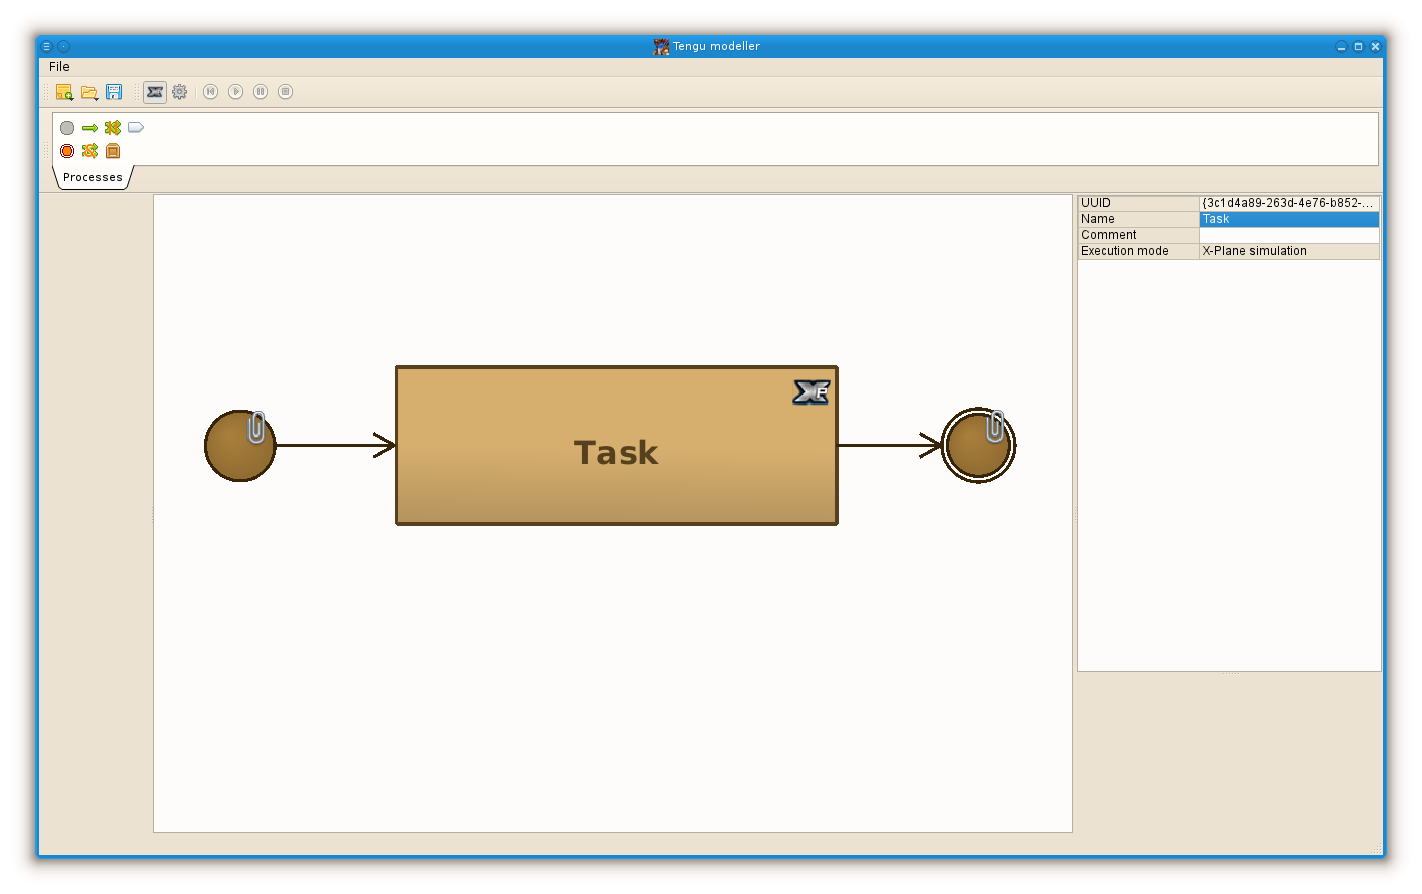
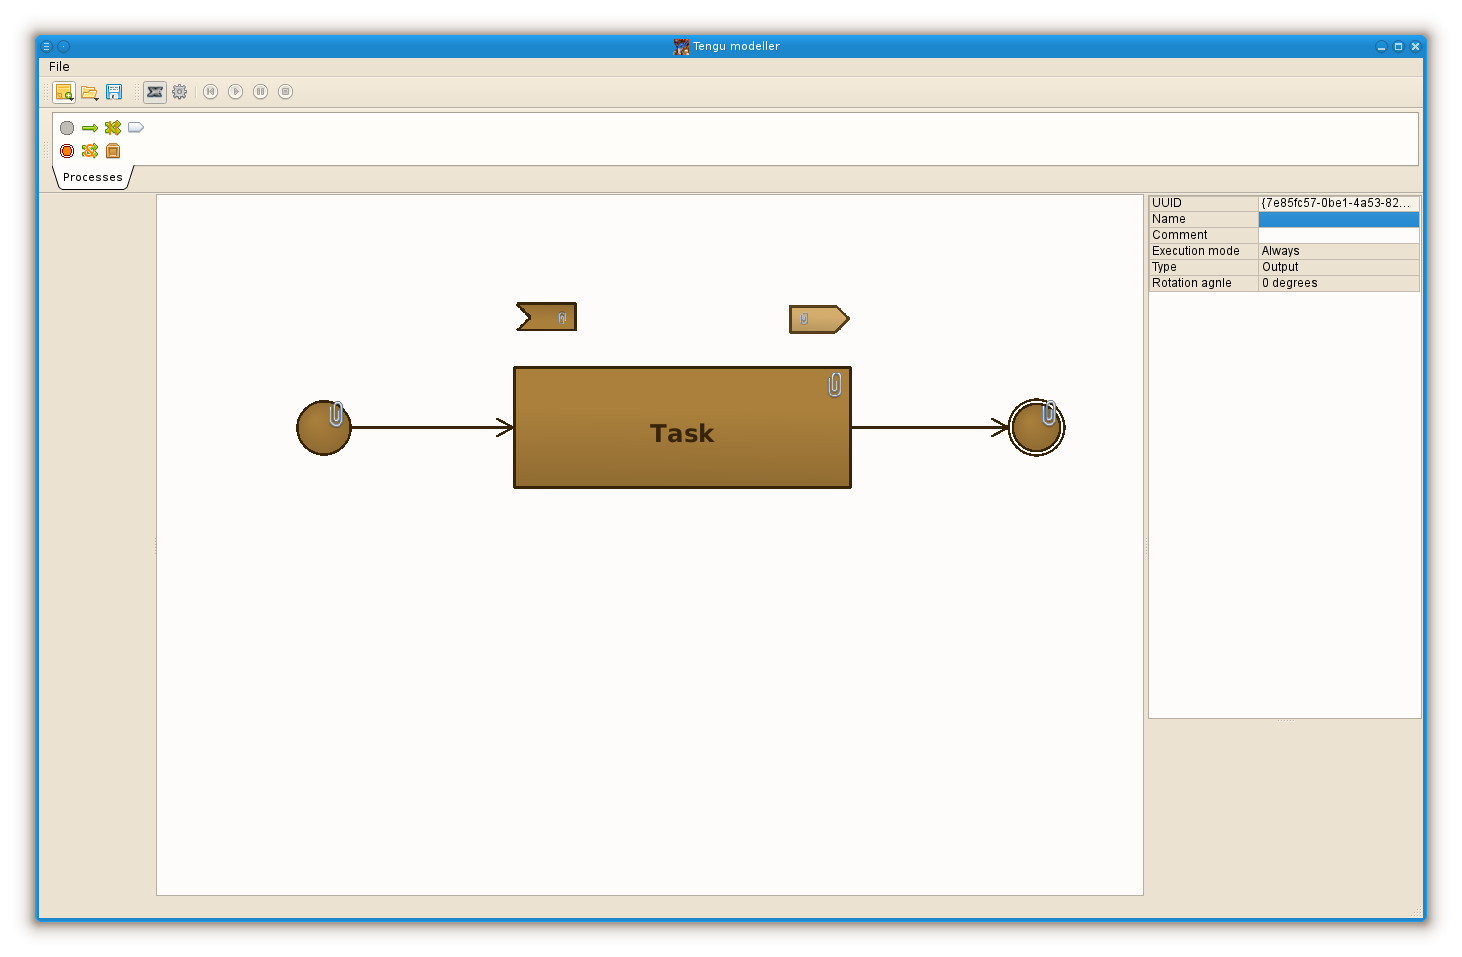
Sprout rotation

Changed region(s): [[0.0, 0.0302, 0.9902, 0.9664]]

diff --git a/tengu/guis/tengu_modeller/src/schema/SproutItem.cpp b/tengu/guis/tengu_modeller/src/schema/SproutItem.cpp
@@ -21,10 +21,46 @@
 tengu::SproutItem::SproutItem ( tengu::Sprout * sprout, QGraphicsItem* parent ) 
     : AbstractEntityItem ( sprout , parent )
 {
-    _boundingRect = QRect( 0, 0, 72, 33 );
-    _className = "SproutItem";
+    __width = 72;
+    __height = 33;
     __orientation = SPO_0;
+    
+    _boundingRect = QRect( 0, 0, __width, __height );
+    _className = "SproutItem";    
+    
 }
+
+// ********************************************************************************************************************
+// *                                                                                                                  *
+// *                                          Make and return transformation matrix.                                  *
+// * ---------------------------------------------------------------------------------------------------------------- *
+// *                                        Сделать и вернуть матрицу трансформации.                                  *
+// *                                                                                                                  *
+// ********************************************************************************************************************
+
+QTransform tengu::SproutItem::__transform() {
+    QTransform transform;
+    transform.translate( - __width/2, __height/2 );
+    transform.rotate( 360.0 - (int) getOrientation() );
+    transform.translate( __width/2, __height/2 );
+    return transform;
+}
+
+// ********************************************************************************************************************
+// *                                                                                                                  *
+// *                                           Recalculate item's screen position.                                    *
+// * ---------------------------------------------------------------------------------------------------------------- *
+// *                                           Пересчет позиции элемента на экране.                                   *
+// *                                                                                                                  *
+// ********************************************************************************************************************
+
+void tengu::SproutItem::recalculate() {
+    
+    QPixmap pixmap( __width + 1, __height + 1 );            
+    QPixmap rotated = pixmap.transformed( __transform() );    
+    _boundingRect = rotated.rect();    
+}
+
 
 // ********************************************************************************************************************
 // *                                                                                                                  *
@@ -38,28 +74,87 @@ void tengu::SproutItem::paint ( QPainter* painter, const QStyleOptionGraphicsIte
     
     _storePainterSettings( painter );
     
-    painter->setPen( _processDiagram_borderPen() );
+    // Draw the picture at the in-memory pixmap
+    // Рисуем картинку в памяти.
+    
+    QPixmap pixmap( __width + 1, __height + 1 );    
+    
+    QPainter p( & pixmap );
+    
+    // No color but alpha-layer
+    // Цвета нет, но есть альфа-слой.
+    
+    p.setBrush( QColor( 0, 0, 0, 255 ) );
+    p.eraseRect( 0, 0, __width + 1, __height + 1 );
+    
+    p.setPen( _processDiagram_borderPen() );
     
     QLinearGradient gradient( _boundingRect.topLeft(), _boundingRect.bottomLeft() );
     gradient.setColorAt(0, _processDiagram_brightFillColor() );
     gradient.setColorAt(1, _processDiagram_darkFillColor() );
     gradient.setStart( 1, _boundingRect.height() / 3 );
     QBrush brush( gradient );
-    painter->setBrush( brush );
+    p.setBrush( brush );
     
     int noseWidth = ( _boundingRect.height() - 2 ) / 2;
-    QPointF points[5] = {
-        QPointF(1,1),
-        QPointF( _boundingRect.width() - 1 - noseWidth, 1 ),
-        QPointF( _boundingRect.width() - 1, _boundingRect.height() / 2 ),
-        QPointF( _boundingRect.width() - 1 - noseWidth, _boundingRect.height() - 1 ),
-        QPointF( 1, _boundingRect.height() - 1 )
+    
+    if ( getSproutType() == Sprout::SP_OUTPUT ) {
         
+        QPointF points[5] = {
+            QPointF(1,1),
+            QPointF( __width - 1 - noseWidth, 1 ),
+            QPointF( __width - 1, __height / 2 ),
+            QPointF( __width - 1 - noseWidth, __height - 1 ),
+            QPointF( 1, __height - 1 )
+        
+        };    
+        p.drawPolygon( points, 5 );
+        
+    } else {
+        
+        QPointF points[5] = {
+            QPointF(1,1),
+            QPointF( __width - 1, 1 ),
+            QPointF( __width - 1 - noseWidth, __height / 2 ),
+            QPointF( __width - 1, __height - 1 ),
+            QPointF( 1, __height - 1 )
+        };
+        p.drawPolygon( points, 5 );
     };
     
-    painter->drawPolygon( points, 5 );
+    // Execution mode pixmap.
+    // Картинка режима выполнения.
     
+    QPixmap emp = _executionModePixmap( false );
+    // if ( getExecutionMode() == EM_XPLANE ) 
+    //    p.drawPixmap( __width-40, 8, emp );
+    // else 
+        p.drawPixmap( 10, 8, emp );
+    
+    // Rotate in-memory picture to specified angle.
+    // Поворот картинки в памяти на укзанный угол.
+        
+    QPixmap rotated = pixmap.transformed( __transform() );    
+    
+    // Output picture from memory to screen
+    // вывод картинки из памяти на экран.
+    
+    painter->setCompositionMode( QPainter::CompositionMode_Multiply );
+    painter->drawPixmap( 0, 0, rotated );
+        
     _restorePainterSettings( painter );
+    
+    /*
+    QPixmap pix1 = pixmap.transformed( QTransform().translate(-rRadius, -rRadius));
+    QPixmap pix2 = m_pxOriginal.transformed(QTransform().rotate(m_iAn gle));
+    QPixmap rotatedPix = pix2.transformed(QTransform().translate(rRadius, rRadius));
+    m_pxItem->setPixmap(rotatedPix);
+    */
+    
+    // _storePainterSettings( painter );
+    
+    
+    // _restorePainterSettings( painter );
     
     /*
     QPixmap pixmap( _boundingRect.width(), _boundingRect.height() ) ;

diff --git a/tengu/guis/tengu_modeller/src/schema/AbstractEntityItem.cpp b/tengu/guis/tengu_modeller/src/schema/AbstractEntityItem.cpp
@@ -230,9 +230,29 @@ QPen tengu::AbstractEntityItem::_processDiagram_borderPen() {
 // ********************************************************************************************************************
 
 void tengu::AbstractEntityItem::_storePainterSettings ( QPainter * painter ) {
+    
     __oldPainterPen = painter->pen();
     __oldPainterBrush = painter->brush();
     __oldPainterFont = painter->font();
+    __oldPainterCompositionMode = painter->compositionMode();
+    
+}
+
+// ********************************************************************************************************************
+// *                                                                                                                  *
+// *                                             Restore old painter settings.                                        *
+// * ---------------------------------------------------------------------------------------------------------------- *
+// *                                       Восстановление старых установок painter'а.                                 *
+// *                                                                                                                  *
+// ********************************************************************************************************************
+
+void tengu::AbstractEntityItem::_restorePainterSettings ( QPainter * painter ) {
+    
+    painter->setPen( __oldPainterPen );
+    painter->setBrush( __oldPainterBrush );
+    painter->setFont( __oldPainterFont );
+    painter->setCompositionMode( __oldPainterCompositionMode );
+    
 }
 
 // ********************************************************************************************************************
@@ -288,20 +308,6 @@ QPixmap tengu::AbstractEntityItem::_executionModePixmap( bool forSize32 ) {
     return QPixmap();
 }
 
-
-// ********************************************************************************************************************
-// *                                                                                                                  *
-// *                                             Restore old painter settings.                                        *
-// * ---------------------------------------------------------------------------------------------------------------- *
-// *                                       Восстановление старых установок painter'а.                                 *
-// *                                                                                                                  *
-// ********************************************************************************************************************
-
-void tengu::AbstractEntityItem::_restorePainterSettings ( QPainter * painter ) {
-    painter->setPen( __oldPainterPen );
-    painter->setBrush( __oldPainterBrush );
-    painter->setFont( __oldPainterFont );
-}
 
 // ********************************************************************************************************************
 // *                                                                                                                  *

diff --git a/tengu/guis/tengu_modeller/src/AgentPropertyModel.cpp b/tengu/guis/tengu_modeller/src/AgentPropertyModel.cpp
@@ -250,11 +250,16 @@ bool tengu::AgentPropertyModel::setData( const QModelIndex & index, const QVaria
     
     if ( ( role == Qt::EditRole ) && ( ! oneElement.readOnly ) && ( ! oneElement.propertyName.isEmpty() ) ) {
         
+        __item->hide();
+        
         switch ( oneElement.type ) {
             
             case AgentPropertyElement::String: {
                 __item->setProperty( oneElement.propertyName.toLatin1().data(), value );
             }; break;
+            
+            // The enumerable values want not to be setted as property.
+            // Перечислимые значения не хотят устанавливаться как свойство.
             
             case AgentPropertyElement::ExecutionModeSelector : {
                 __item->setExecutionMode( (AbstractAgent::execution_mode_t) value.toInt() );
@@ -262,16 +267,23 @@ bool tengu::AgentPropertyModel::setData( const QModelIndex & index, const QVaria
             
             case AgentPropertyElement::SproutTypeSelector : {
                 SproutItem * spi = dynamic_cast<SproutItem *> ( __item );
-                if ( spi ) spi->setSproutType( value.toInt() );
+                if ( spi ) spi->setSproutType( (Sprout::sprout_type_t) value.toInt() );
             }; break;
             
             case AgentPropertyElement::SproutAngleSelector : {
                 SproutItem * spi = dynamic_cast<SproutItem * > ( __item );
-                if ( spi ) spi->setOrientation( value.toInt() );
+                if ( spi ) {                    
+                    spi->setOrientation( (SproutItem::sprout_orientation_t) value.toInt() );                    
+                };
+                
             }; break;
         };
                 
+        __item->recalculate();
+        __item->update();
+        __item->show();
         __properties = __item->properties();        
+        
         emit dataChanged( index, index );
         
         return true;        

diff --git a/tengu/guis/tengu_modeller/src/MainWindow.cpp b/tengu/guis/tengu_modeller/src/MainWindow.cpp
@@ -408,10 +408,19 @@ void tengu::MainWindow::__on_schema_item_double_clicked ( tengu::AbstractEntityI
 void tengu::MainWindow::__on_schama_item_moved ( tengu::AbstractEntityItem * entity, QPoint pos ) {
     
     if ( entity ) {
+        
         __schemaView->hide();
+        
+        // Move the entity itself on the screen.
+        // Движение самой "сущности" на экране.
+        
         entity->setX( pos.x() );
-        entity->setY( pos.y() );        
+        entity->setY( pos.y() );  
+        entity->recalculate();
         entity->update(); 
+        
+        // After the entity itself, we need to recalculate and repaint his links.
+        // После самой "сущности" нужно пересчитать и перерисовать ее связи.
         
         QList<AbstractEntityItem * > links = entity->hisLinks();
         for ( int i=0; i<links.size(); i ++ ) {
@@ -421,10 +430,9 @@ void tengu::MainWindow::__on_schama_item_moved ( tengu::AbstractEntityItem * ent
                 link->update();
             };
         };                    
+        
         __schemaView->show();
-        // __schemaView->updateSceneRect( QRect(0, 0, 800, 600 ) );
-        // currentPos = __schemaView->mapFromScene( currentPos );
-        // qDebug() << "After map to scene: " << currentPos;
+                
     };
     
 }

diff --git a/tengu/guis/tengu_modeller/src/schema/SproutItem.h b/tengu/guis/tengu_modeller/src/schema/SproutItem.h
@@ -66,9 +66,16 @@ namespace tengu {
             sprout_orientation_t getOrientation();
             void setOrientation( sprout_orientation_t orientation );
             
+            void recalculate();
+            
         private:
             
             sprout_orientation_t __orientation;
+            
+            QTransform __transform();
+            
+            int __width;
+            int __height;
     };
     
 };

diff --git a/tengu/guis/tengu_modeller/src/schema/AbstractEntityItem.h b/tengu/guis/tengu_modeller/src/schema/AbstractEntityItem.h
@@ -181,6 +181,7 @@ namespace tengu {
             QPen    __oldPainterPen;
             QBrush  __oldPainterBrush;
             QFont   __oldPainterFont;
+            QPainter::CompositionMode __oldPainterCompositionMode;
             
             QMap< QString, AbstractEntityItem * > __linksOutgoingFromThis;
             QMap< QString, AbstractEntityItem * > __linksIncommingToThis;

diff --git a/tengu/guis/tengu_modeller/src/AgentPropertyDelegate.cpp b/tengu/guis/tengu_modeller/src/AgentPropertyDelegate.cpp
@@ -201,7 +201,7 @@ void tengu::AgentPropertyDelegate::setModelData ( QWidget * editor, QAbstractIte
             int value = cb->itemData( idx ).toInt();
             model->setData( index, value, Qt::EditRole );
             */
-        };        
+        }; break;
     };
         
 }
